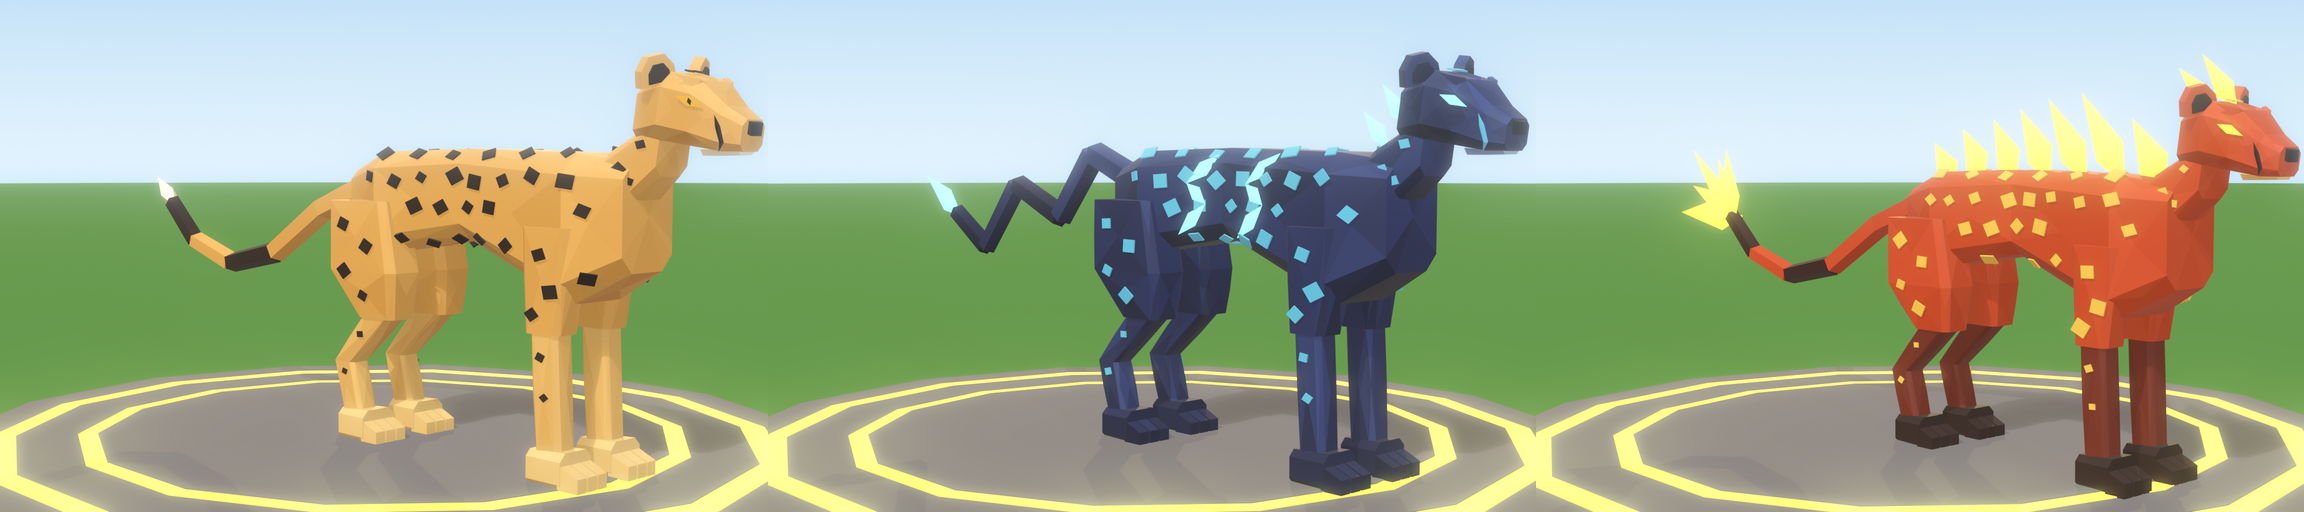
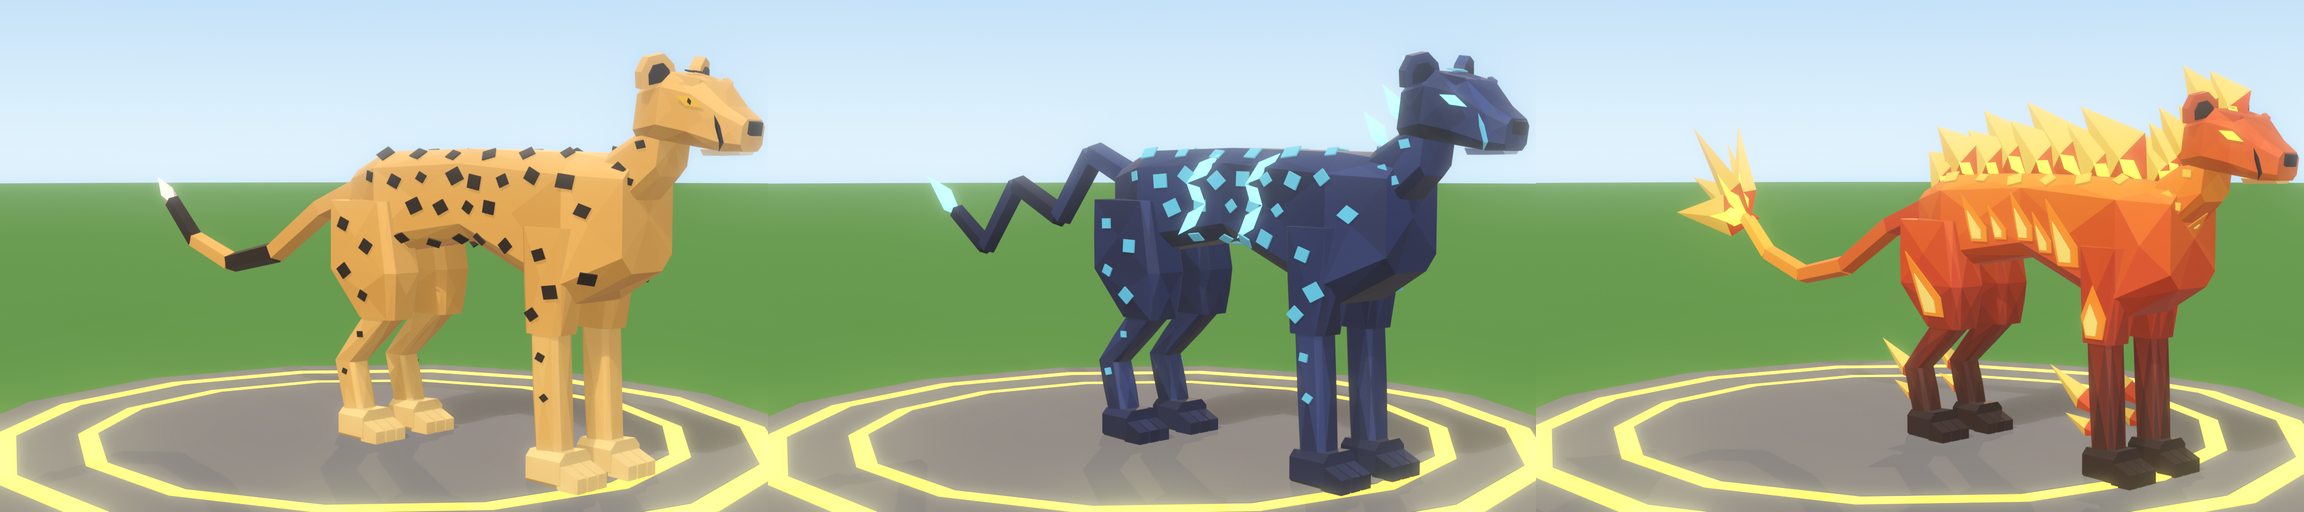
STATION-040: the Fire Cheetah reworked (a coat graded by height, painted flames, a mane of flame, flaming heels)

Changed region(s): [[0.6562, 0.125, 1.0, 1.0]]

diff --git a/tools/blender/stations/assets/cheetahs.py b/tools/blender/stations/assets/cheetahs.py
@@ -27,6 +27,44 @@ HEAD = 0.9  # the head is shrunk by this about the neck: a cheetah's head is sma
 TAIL = ((0, 2.4, 2.25), (0, 3.1, 2.0), (0, 3.85, 1.55), (0, 4.6, 1.4), (0, 5.25, 1.6), (0, 5.7, 2.0))
 
 
+LICK = [(-0.22, 0.0), (0.22, 0.0), (0.34, 0.4), (0.5, 1.0), (0.05, 0.55), (-0.2, 0.3)]  # (back, up): a tongue of flame, leaning back
+BLAZE = [(-0.2, 0.0), (0.2, 0.0), (0.3, 0.4), (0.0, 1.0), (-0.3, 0.4)]  # an upright one, for the chest
+HOT, HEART = (255, 150, 36), (255, 230, 124)  # a painted flame's body and its heart
+ROOT, TIP = (232, 78, 26), (255, 214, 84)  # a standing flame, from its root to its tip
+
+
+def gradient(ob, stops, rng, kind):
+    """Repaints a piece by height: `stops` [(z, rgb), ...] from low to high (the Fire Cheetah's coat)."""
+
+    def at(z):
+        for (z0, c0), (z1, c1) in zip(stops, stops[1:]):
+            if z <= z1:
+                return k.mix(c0, c1, max(0.0, min(1.0, (z - z0) / (z1 - z0))))
+        return stops[-1][1]
+
+    return F.colour(ob, [tone(at(poly.center.z), kind) for poly in ob.data.polygons], rng, 0.2)
+
+
+def lick(target, into, centre, s, size, rng, direction=None, outline=LICK):
+    """A tongue of flame painted on `target` (on its side, unless `direction` says where it faces):
+    orange with a yellow heart, leaning back."""
+    try:
+        at, n = k.land(target, centre, direction or (s, 0, 0))
+    except ValueError:
+        return  # the ray misses the piece here
+    fx, fy, fz = k._frame(n)
+    frame = (fx * s, fy, fz)  # across is towards the tail on both sides
+    into.append(plate("lick", at, frame, [(u * size, v * size) for u, v in outline], 0.012, tone(HOT, BRIGHT), rng, lift=0.018))
+    into.append(plate("lick", at + frame[0] * 0.05 * size + fy * 0.06 * size, frame, [(u * size * 0.55, v * size * 0.6) for u, v in outline], 0.01, tone(HEART, BRIGHT), rng, lift=0.032))
+
+
+def flame(base, lean, height, width, into, hearts, rng, glow, face=(1, 0, 0)):
+    """A flame standing on `base`: a painted tongue, red at the root and yellow at the tip, round a
+    glowing heart that shows on both sides."""
+    into.append(shard(base - lean * 0.12, base + lean * height, width, width * 0.26, (tone(ROOT, F.FIRE), tone(TIP, F.FIRE)), rng, face=face, at=0.35, name="flame"))
+    hearts.append(shard(base - lean * 0.08, base + lean * height * 0.62, width * 0.4, width * 0.34, None, rng, face=face, at=0.35, m=glow, name="flame"))
+
+
 def cheetah_model(p, seed):
     """The cheetah from a palette `p` (see the three makers below). Returns (groups, joints)."""
     rng = random.Random(seed)
@@ -37,8 +75,11 @@ def cheetah_model(p, seed):
     glow = k.glow(p["glow"]) if p.get("glow") else None
     groups = {"body": [], "head": [], "head_glow": [], "body_glow": [], "tail": [], "tail_glow": []}
 
+    flames, grade = p.get("flames", False), p.get("grade")  # the Fire Cheetah: flames for spots, a coat graded by height
+
     def hide(ob, tones, bulge=0.01):
-        return rough(ob, tones, rng, bulge, FADE)
+        ob = rough(ob, tones, rng, bulge, FADE)
+        return gradient(ob, grade, rng, kind) if grade else ob
 
     def spots(target, into, centres, direction, size=0.085):
         """Flat diamond spots on `target`, where rays through `centres` along `direction` meet it."""
@@ -55,13 +96,14 @@ def cheetah_model(p, seed):
     torso = hide(loft("torso", [yring(*r) for r in ((-0.6, 2.05, 0.3, 0.38, 0.42, 0.12), (-0.15, 2.0, 0.44, 0.5, 0.62, 0.16), (1.0, 2.14, 0.33, 0.4, 0.32, 0.12), (1.95, 2.08, 0.4, 0.44, 0.42, 0.14), (2.45, 2.12, 0.22, 0.24, 0.22, 0.08))], coat, rng), coat)
     groups["body"].append(torso)
     for s in (1, -1):
-        flank = [(0, -0.3 + i * 0.3 + (row % 2) * 0.15 + rng.uniform(-0.04, 0.04), 1.54 + row * 0.24 + rng.uniform(-0.03, 0.03)) for row in range(4) for i in range(8)]
+        flank = [(0, -0.3 + i * 0.3 + (row % 2) * 0.15 + rng.uniform(-0.04, 0.04), 1.54 + row * 0.24 + rng.uniform(-0.03, 0.03)) for row in (() if flames else range(4)) for i in range(8)]
         # not where a leg covers the flank
         flank = [c for c in flank if not ((abs(c[1]) < 0.3 or abs(c[1] - HIND) < 0.46) and c[2] < 2.12)]
         spots(torso, groups["body"], flank, (s, 0, 0.1))
         spots(torso, groups["body"], [(s * 0.1, -0.1 + i * 0.4, 2.2) for i in range(6)], (s * 0.55, 0, 0.83))
 
     # legs: very long and thin, the lower half lighter, small paws
+    limbs = {}
     for s in (1, -1):
         x, side = s * 0.3, "l" if s > 0 else "r"
         forearm = hide(loft("forearm", [zring(x, 0.05, 1.18, 0.115, 0.13, 0.04), zring(x, 0.0, 0.26, 0.11, 0.125, 0.04)], legs, rng), legs)
@@ -78,6 +120,9 @@ def cheetah_model(p, seed):
             shin,
             *F.small_paw(x, HIND + 0.1, T("paw"), rng),
         ]
+        limbs["arm", s], limbs["thigh", s] = arm, thigh
+        if flames:
+            continue  # its legs carry flames, not spots
         spots(arm, groups["leg_f" + side], [(0, 0.02, 1.75), (0, -0.08, 1.48), (0, 0.1, 1.3)], (s, 0, 0))
         spots(thigh, groups["leg_b" + side], [(0, HIND + 0.12, 1.9), (0, HIND - 0.18, 1.72), (0, HIND + 0.1, 1.5), (0, HIND - 0.12, 1.3)], (s, 0, 0))
         spots(forearm, groups["leg_f" + side], [(0, 0.04, 0.98), (0, 0.0, 0.68)], (s, 0, 0), 0.05)
@@ -90,6 +135,7 @@ def cheetah_model(p, seed):
     head.append(skull)
     neck_piece = hide(loft("neck", [yring(-0.82, 2.66, 0.21, 0.24, 0.27, 0.08), yring(-0.35, 2.2, 0.29, 0.32, 0.38, 0.1)], coat, rng), coat)
     head.append(neck_piece)
+    limbs["neck"] = neck_piece
     head.append(loft("chin", [yring(-1.47, 2.69, 0.11, 0.035, 0.04, 0.03), yring(-1.18, 2.66, 0.18, 0.045, 0.055, 0.05)], pale, rng))
     head.append(loft("nose", [quad(-1.53, 2.86, 0.075, 0.04, 0.06), quad(-1.44, 2.88, 0.085, 0.045, 0.045)], tone(p["nose"]), rng))
     ear = [(-0.16, 0.0), (-0.15, 0.13), (-0.07, 0.23), (0.07, 0.23), (0.15, 0.13), (0.16, 0.0)]  # small and round
@@ -117,7 +163,10 @@ def cheetah_model(p, seed):
     last = len(path) - 1
     for i in range(last):
         seg = k.tube([path[i], path[i + 1]], [0.13 - 0.04 * i / last, 0.13 - 0.04 * (i + 1) / last], m=F.material(), n=5, name="tail")
-        groups["tail"].append(F.colour(seg, dark if last - 1 - i in (0, 2) else coat, rng))  # two dark rings before the tip
+        ring = dark if last - 1 - i in (0, 2) else coat  # two dark rings before the tip
+        if p.get("tail_hot"):  # or hotter and hotter towards a tip of flame
+            ring = tone(k.mix(p["coat"], p["tail_hot"], i / (last - 1)), kind)
+        groups["tail"].append(F.colour(seg, ring, rng))
     end, flow = path[-1], (path[-1] - path[-2]).normalized()
     if p.get("tip") == "glow":
         groups["tail_glow"].append(shard(end - flow * 0.1, end + flow * 0.7, 0.26, 0.14, None, rng, face=(1, 0, 0), at=0.4, m=glow, name="tip"))
@@ -125,13 +174,14 @@ def cheetah_model(p, seed):
         for i in range(5):
             a = math.radians(-40 + 20 * i)
             d = Vector(((i % 3 - 1) * 0.3, flow.y * math.cos(a) - flow.z * math.sin(a), flow.z * math.cos(a) + flow.y * math.sin(a))).normalized()
-            groups["tail_glow"].append(shard(end - d * 0.15, end + d * (1.0 - 0.12 * abs(i - 2)), 0.38, 0.2, None, rng, face=(1, 0, 0.3), at=0.38, m=glow, name="flame"))
+            groups["tail_glow"].append(shard(end - d * 0.15, end + d * (1.0 - 0.12 * abs(i - 2)), 0.3, 0.22, None, rng, face=(1, 0, 0.3), at=0.38, m=glow, name="flame"))
+            groups["tail"].append(shard(end - d * 0.2, end + d * (1.4 - 0.16 * abs(i - 2)), 0.52, 0.13, (tone(ROOT, F.FIRE), tone(TIP, F.FIRE)), rng, face=(1, 0, 0.3), at=0.38, name="flame"))
     else:
         groups["tail"].append(shard(end - flow * 0.1, end + flow * 0.4, 0.22, 0.2, T("tip"), rng, face=(1, 0, 0), at=0.4, name="tip"))
 
     extra = p.get("extra")
     if extra:
-        extra(groups, torso, rng, glow)
+        extra(groups, torso, limbs, rng, glow)
     neck = Vector((0, -0.42, 2.3))
     nod = Matrix.Translation(neck) @ Matrix.Rotation(math.radians(NOD), 4, "X") @ Matrix.Scale(HEAD, 4) @ Matrix.Translation(-neck)
     for ob in groups["head"] + groups["head_glow"]:
@@ -149,7 +199,7 @@ def cheetah():
     )
 
 
-def lightning_extra(groups, torso, rng, glow):
+def lightning_extra(groups, torso, limbs, rng, glow):
     """A jagged bolt of lightning down each flank behind the shoulder and before the haunch, and a crest
     of three short bolts on the back of the neck."""
     for s in (1, -1):
@@ -176,23 +226,38 @@ def lightning_cheetah():
     )
 
 
-def fire_extra(groups, torso, rng, glow):
-    """A ridge of flame down the spine and a crest of two flames between the ears."""
-    for i, h in enumerate((0.55, 0.78, 0.72, 0.62, 0.52, 0.44, 0.36)):
-        at, _ = k.land(torso, (0, -0.3 + i * 0.4, 2.1), (0, 0, 1))
-        lean = Vector((rng.uniform(-0.1, 0.1), 0.6, 1)).normalized()
-        groups["body_glow"].append(shard(at - lean * 0.1, at + lean * h, 0.32, 0.14, None, rng, face=(1, 0, 0), at=0.35, m=glow, name="flame"))
-    for i in range(2):
-        base = Vector((0, -0.95 + i * 0.22, 3.16 - i * 0.04))
-        groups["head_glow"].append(shard(base, base + Vector((0, 0.42, 0.42 - i * 0.1)), 0.2, 0.09, None, rng, face=(1, 0, 0), at=0.35, m=glow, name="flame"))
+def fire_extra(groups, torso, limbs, rng, glow):
+    """Flame, painted and glowing: a mane of it from between the ears down the neck and the spine,
+    tongues of it licking up the flanks, shoulders, haunches and throat, and a flame trailing from every heel."""
+    body, head = groups["body"], groups["head"]
+    for i, h in enumerate((0.6, 0.9, 0.66, 0.96, 0.7, 0.86, 0.6, 0.68, 0.46)):  # down the spine, high and low by turns, streaming back
+        at, _ = k.land(torso, (0, -0.4 + i * 0.33, 2.1), (0, 0, 1))
+        lean = Vector((rng.uniform(-0.14, 0.14), 1.05, 1)).normalized()
+        flame(at, lean, h, 0.6, body, groups["body_glow"], rng, glow)
+    for y, z, h in ((-0.95, 3.16, 0.5), (-0.74, 3.1, 0.62), (-0.7, 2.8, 0.55), (-0.56, 2.68, 0.66), (-0.43, 2.57, 0.6)):  # between the ears, down the neck
+        flame(Vector((0, y, z)), Vector((0, 1.0, 1)).normalized(), h, 0.46, head, groups["head_glow"], rng, glow)
+    lick(limbs["neck"], head, (0, -0.48, 1.98), 1, 0.42, rng, direction=(0, -0.6, -0.8), outline=BLAZE)  # a blaze up the throat
+    for s in (1, -1):
+        side, x = "l" if s > 0 else "r", s * 0.3
+        # big and small by turns, each standing on the flank's flat side (it runs from about 1.72 to 1.96, by
+        # the waist, up to 2.4): on the bevel below it a flat tongue would stick out
+        for y, z, size in ((0.36, 1.77, 0.56), (0.64, 1.87, 0.34), (0.9, 1.96, 0.42), (1.2, 1.96, 0.3), (1.45, 1.93, 0.42)):
+            lick(torso, body, (0, y, z), s, size, rng)
+        lick(limbs["arm", s], groups["leg_f" + side], (0, 0.03, 1.2), s, 0.44, rng, outline=BLAZE)  # upright: the arm is narrow
+        lick(limbs["thigh", s], groups["leg_b" + side], (0, HIND - 0.16, 1.22), s, 0.6, rng)
+        for leg, y in (("leg_f" + side, 0.1), ("leg_b" + side, HIND + 0.24)):
+            for base, tip, width in (((x, y, 0.52), (x, y + 0.56, 0.9), 0.22), ((x, y, 0.36), (x, y + 0.38, 0.5), 0.16)):
+                groups[leg].append(shard(base, tip, width, width * 0.5, (tone(ROOT, F.FIRE), tone(TIP, F.FIRE)), rng, face=(s, 0, 0), at=0.35, name="heel"))
 
 
 def fire_cheetah():
-    """Fire Cheetah (legendary): a red-hot coat with ember-yellow spots and scorched legs, a ridge of
-    flame down the spine, a tail that ends in flame, glowing eyes."""
+    """Fire Cheetah (legendary): a coat that burns from scorched black legs through red to an orange back,
+    tongues of flame painted up its flanks and legs, a mane of flame from brow to tail, flames at its
+    heels and for a tail tip, glowing eyes."""
     return cheetah_model(
-        dict(kind=F.WARM, coat=(208, 74, 30), legs=(120, 44, 28), pale=(255, 198, 112), dark=(52, 26, 22), paw=(46, 28, 26), spot=(255, 208, 84), spot_kind=BRIGHT, nose=(40, 22, 20),
-             tear=(52, 26, 22), glow=FLAME, glow_eyes=True, tip="flame", extra=fire_extra),
+        dict(kind=F.WARM, coat=(208, 74, 30), legs=(120, 44, 28), pale=(255, 204, 120), dark=(52, 26, 22), paw=(46, 28, 26), spot=(255, 208, 84), spot_kind=BRIGHT, nose=(40, 22, 20),
+             tear=(52, 26, 22), glow=FLAME, glow_eyes=True, tip="flame", flames=True, tail_hot=(255, 186, 56), extra=fire_extra,
+             grade=((0.25, (58, 30, 26)), (0.9, (124, 38, 24)), (1.6, (204, 62, 26)), (2.15, (232, 104, 30)), (2.5, (246, 142, 38)), (2.85, (222, 92, 28)), (3.3, (214, 80, 28)))),
         14,
     )
 
@@ -201,5 +266,5 @@ def fire_cheetah():
 ASSETS = [
     F.asset("creature_cheetah", cheetah, 1.45, {}, "Cheetah: a slender faceted sprinter with black spots and tear marks."),
     F.asset("creature_cheetah_lightning", lightning_cheetah, 1.88, {"head_glow": BOLT, "body_glow": BOLT, "tail_glow": BOLT}, "Lightning Cheetah (mythic): storm coat, Neon bolts down the flanks, a zigzag tail."),
-    F.asset("creature_cheetah_fire", fire_cheetah, 1.62, {"head_glow": FLAME, "body_glow": FLAME, "tail_glow": FLAME}, "Fire Cheetah (legendary): red-hot coat, a Neon ridge of flame down the spine, a flame tail."),
+    F.asset("creature_cheetah_fire", fire_cheetah, 1.62, {"head_glow": FLAME, "body_glow": FLAME, "tail_glow": FLAME}, "Fire Cheetah (legendary): a coat graded from scorched black to orange, painted flames, a Neon mane of flame."),
 ]

diff --git a/docs/decisions/0053-animal-stations-faceted-cheetahs.md b/docs/decisions/0053-animal-stations-faceted-cheetahs.md
@@ -11,16 +11,21 @@ SHANNON asked for the cheetahs next, with a lightning and a fire cheetah.
   `tools/blender/stations/assets/cheetahs.py`: a slender body with a deep chest and a high tucked waist
   on very long thin legs, a small head with a short muzzle, round ears and tear marks, spots as small
   flat diamonds on the hide (body, neck, legs), and a very long tail with two dark rings. The hide has
-  the facets of the elephants and jackals. About 2,400 to 2,500 triangles each (the spots are most of it).
+  the facets of the elephants and jackals. About 2,400 to 2,600 triangles each (the spots are most of it).
 - Cheetah: golden, black spots and tear marks, a pale chin and tail tip, amber eyes.
 - Lightning Cheetah (mythic, as now): a storm-dark coat with electric blue spots, a glowing jagged bolt
   down each flank behind the shoulder and before the haunch, a glowing crest on the neck, a zigzag
   tail with a glowing tip, glowing eyes.
-- Fire Cheetah (new, proposed legendary, twist strength): a red-hot coat with ember-yellow spots and
-  scorched dark legs, a glowing ridge of flame down the spine, a crest of flame between the ears, a tail
-  that ends in flame, glowing eyes. Legendary is the free tier: the Lightning Cheetah is the mythic one.
-- Each is scaled to the height of the model it replaces (4.65 and 6 studs; the Fire Cheetah 5.6), so
-  the animal is the size it was; it is longer overall (10.9, 13.9 and 13 studs) because the tail is.
+- Fire Cheetah (new, proposed legendary, twist strength): a coat that burns by height, from scorched
+  black paws and dark red legs through red flanks to an orange back; tongues of flame painted up the
+  flanks, shoulders, haunches and throat (orange with a yellow heart) where the others have spots; a
+  mane of flame streaming back from between the ears down the neck and the spine, each flame painted
+  red to yellow round a glowing heart; a flame trailing from every heel; a tail that grows hotter
+  towards a tip of flame; glowing eyes. A few ember spots stay on the back, neck and head. Legendary is
+  the free tier: the Lightning Cheetah is the mythic one. (A first version had spots like the others
+  and a plain ridge of glowing spikes; SHANNON asked for flame textures and a better look.)
+- Each is scaled to the height of the model it replaces (4.65 and 6 studs; the Fire Cheetah 5.5), so
+  the animal is the size it was; it is longer overall (10.9, 13.9 and 13.5 studs) because the tail is.
 - The small paw the jackals and cheetahs share moved to `facet.py`; the jackals build exactly as uploaded.
 
 ## Open for SHANNON

diff --git a/docs/game-design/game7-animals.md b/docs/game-design/game7-animals.md
@@ -81,7 +81,7 @@ player is about 5 tall).
 | Gemshell Tortoise | | legendary | twist defence | Dark shell with a glowing crystal on every plate. | 7 x 12 |
 | Cheetah | Attack | uncommon | 70 / 35 / 20 / 20 / 45 / 15 | Slender golden sprinter with black spots and tear marks, very long tail. | 5 x 9 |
 | Lightning Cheetah | | mythic | twist speed | Storm-dark coat, electric spots, glowing bolts down both flanks. | 6 x 12 |
-| Fire Cheetah (concept, not in the game yet) | | legendary (proposed) | twist strength (proposed) | Red-hot coat with ember-yellow spots and scorched legs, a glowing ridge of flame down the spine, a flame tail, glowing eyes. Card: `docs/concepts/fire-cheetah-card.png`. | about 6 x 13 |
+| Fire Cheetah (concept, not in the game yet) | | legendary (proposed) | twist strength (proposed) | A coat burning from scorched black legs through red to an orange back, flames painted up the flanks and legs, a glowing mane of flame from brow to tail, flames at the heels and for a tail tip, glowing eyes. Card: `docs/concepts/fire-cheetah-card.png`. | about 6 x 14 |
 
 New faceted looks for the Cheetah and the Lightning Cheetah are proposed in decision 0053 (cards: `docs/concepts/cheetah-card.png`, `docs/concepts/lightning-cheetah-card.png`); their rows above still describe the models in the game.
 
